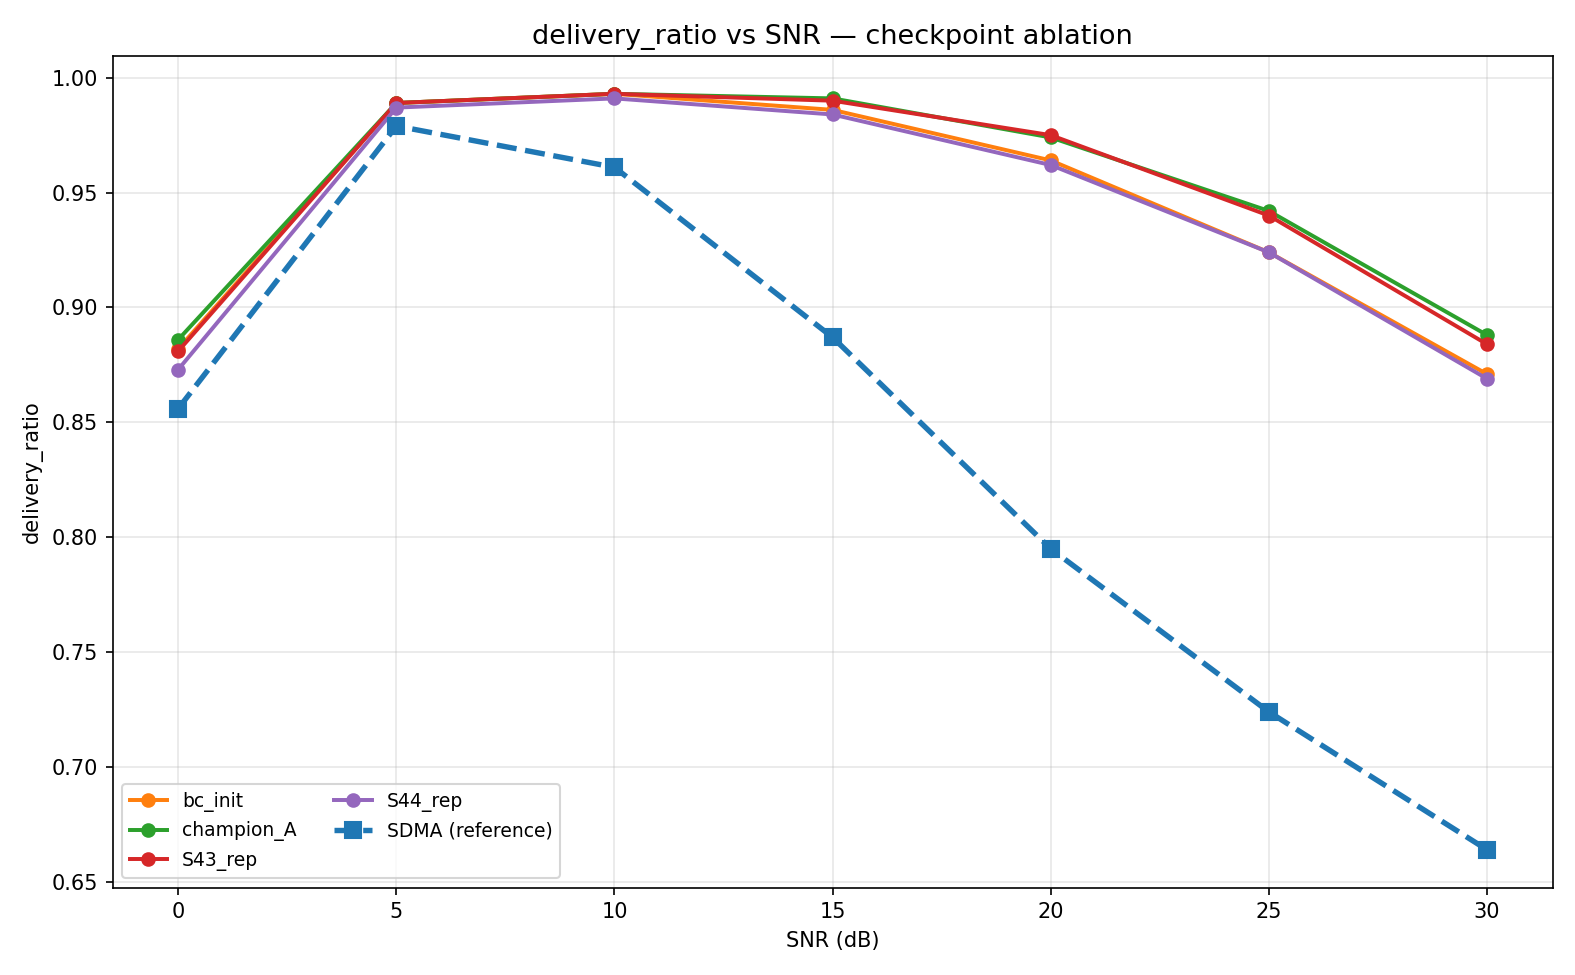
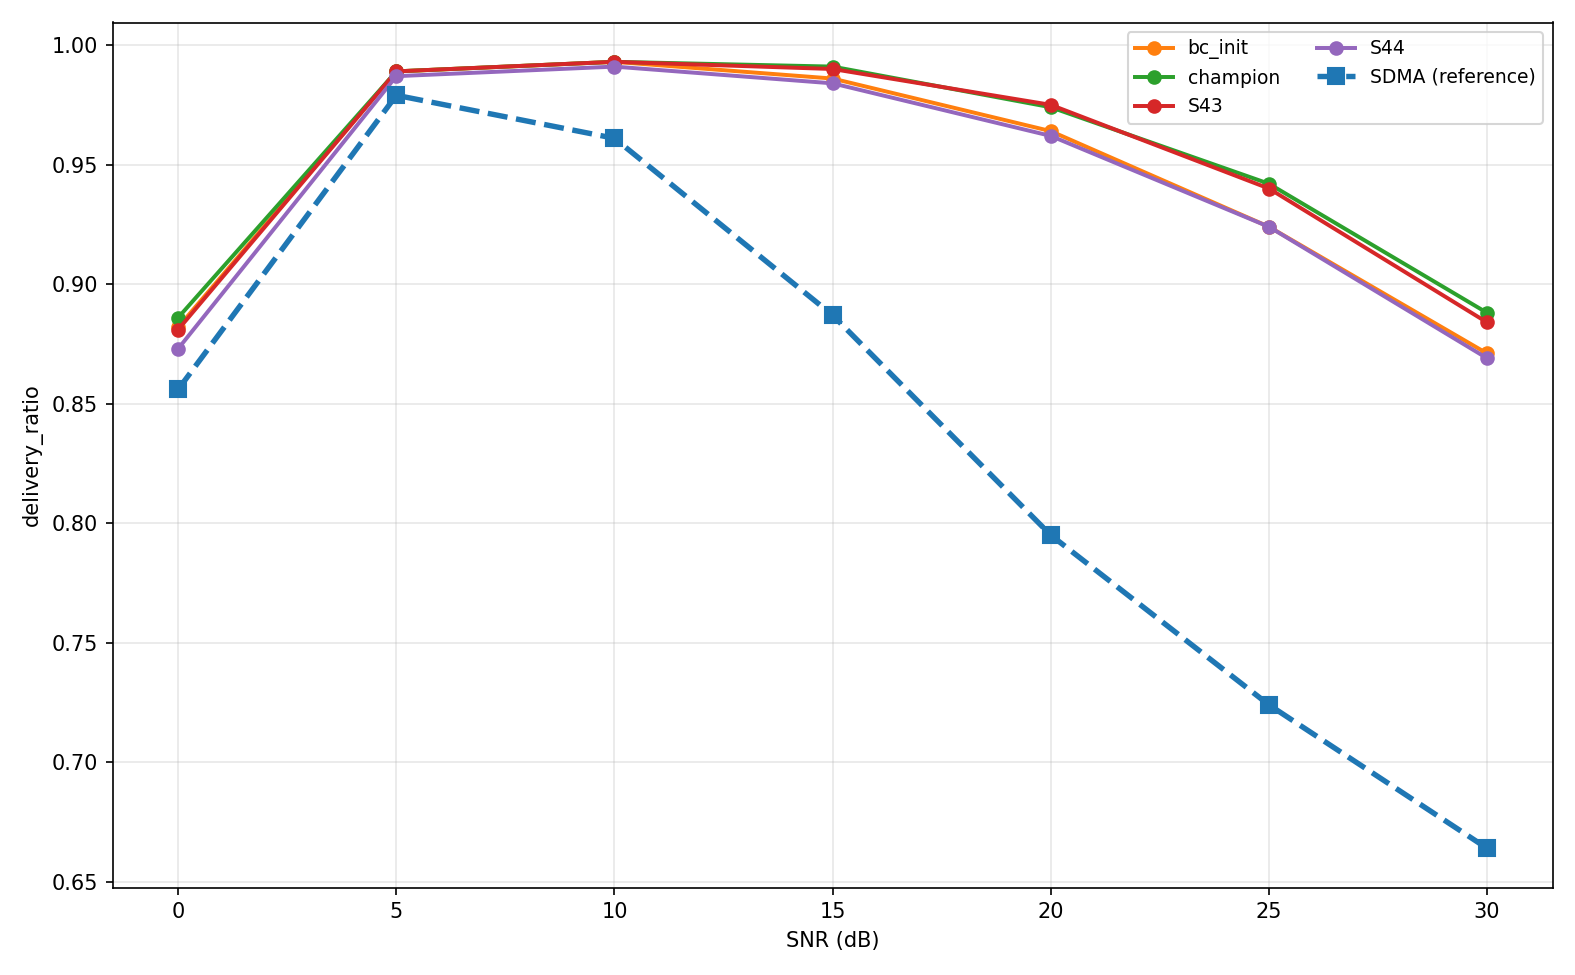
chore: adopt remaining in-flight assets (JointOpt upper-bound script, regenerated ablation fig)

diff --git a/scripts/baselines/offline_upperbound.py b/scripts/baselines/offline_upperbound.py
@@ -1,0 +1,66 @@
+"""JointOpt: a strictly deeper per-slot model-based optimizer as offline-style upper bound (supplement J).
+
+DiffOpt (the paper's solver expert) runs 25 cold-start Adam steps per slot over two
+decoding-order candidates. JointOpt tightens that bound with (i) more Adam steps and
+(ii) warm-starting the power logits from the previous slot, while keeping the same
+differentiable MMSE-SIC shadow engine and oracle CSI. No new optimization code is
+introduced: it reuses src/optimization/solver_expert.py (mutable) as-is.
+
+Usage:
+  PYTHONPATH=. python scripts/baselines/offline_upperbound.py \
+      --points 0,15,30 --n_episodes 20 --n_steps 60
+"""
+
+from __future__ import annotations
+
+import argparse
+import sys
+
+import numpy as np
+
+from scripts.evaluate_snr_sweep import SNR_POINTS, build_config_for_snr, evaluate_method
+from src.env.rsma_env import RSMAEnergyEnv
+from src.optimization.solver_expert import SolverExpert
+
+
+def make_jointopt_fn(env, n_steps: int, lr: float):
+    expert = SolverExpert(env, n_steps=n_steps, lr=lr, use_true_channel=True)
+    state = {"theta": None}
+
+    def action_fn(obs, env):
+        out = expert.solve(env, warm_theta=state["theta"])
+        state["theta"] = np.clip(out["theta"], -10.0, 10.0)
+        return out["action"]
+
+    return action_fn
+
+
+def main(argv=None) -> int:
+    ap = argparse.ArgumentParser(description=__doc__, formatter_class=argparse.RawDescriptionHelpFormatter)
+    ap.add_argument("--points", default="0,15,30")
+    ap.add_argument("--n_episodes", type=int, default=20)
+    ap.add_argument("--n_steps", type=int, default=60)
+    ap.add_argument("--lr", type=float, default=0.1)
+    ap.add_argument("--csi_mode", default="imperfect")
+    args = ap.parse_args(argv)
+
+    want = {int(x) for x in args.points.split(",")}
+    print(f"### JointOpt upper bound (n_steps={args.n_steps}, warm-start, oracle CSI)")
+    print("| SNR(dB) | JointOpt Deliv | JointOpt Q | JointOpt P(W) |")
+    print("|---:|---:|---:|---:|")
+    for snr_db, sigma2 in SNR_POINTS:
+        if snr_db not in want:
+            continue
+        print(f"\n=== SNR={snr_db:>2} dB (sigma2={sigma2:.4g}) ===", flush=True)
+        cfg = build_config_for_snr(sigma2, args.csi_mode)
+        env = RSMAEnergyEnv(cfg)
+        r = evaluate_method(make_jointopt_fn(env, args.n_steps, args.lr), env, args.n_episodes)
+        print(
+            f"| {snr_db} | {r['delivery_ratio']:.3f} | {r['mean_queue']:.2f} | {r['total_power']:.2f} |",
+            flush=True,
+        )
+    return 0
+
+
+if __name__ == "__main__":
+    sys.exit(main())
